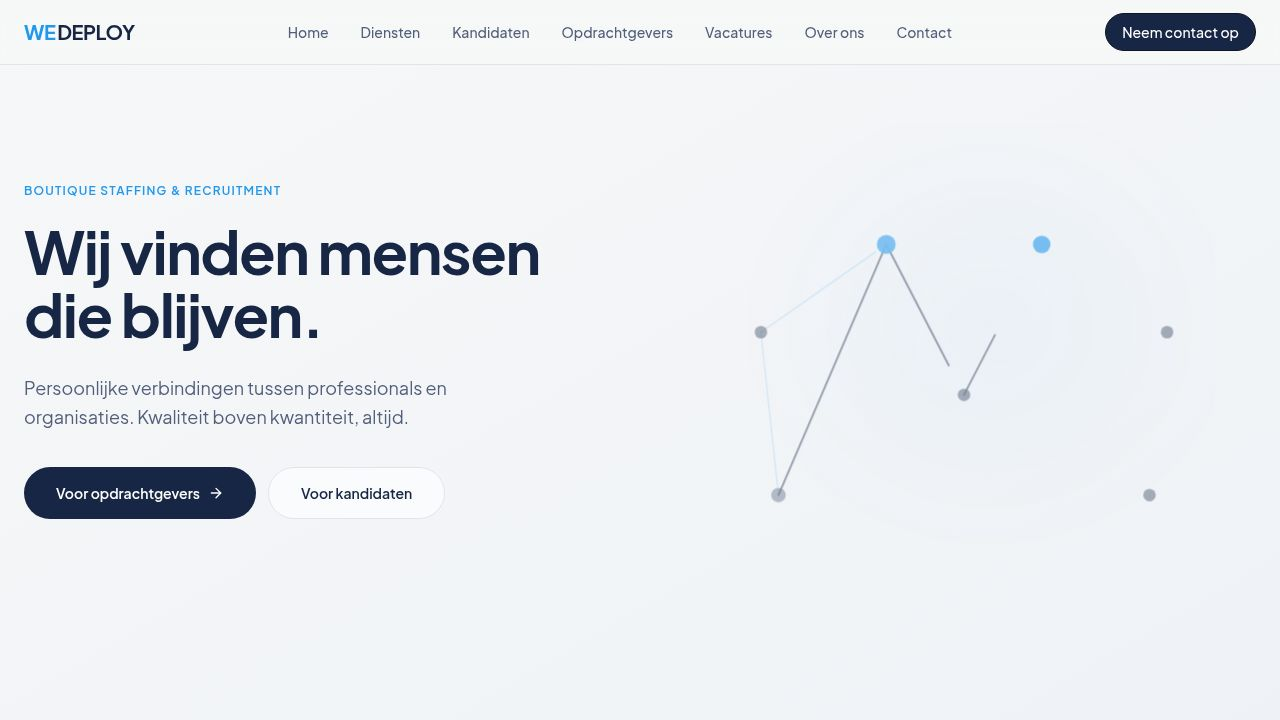
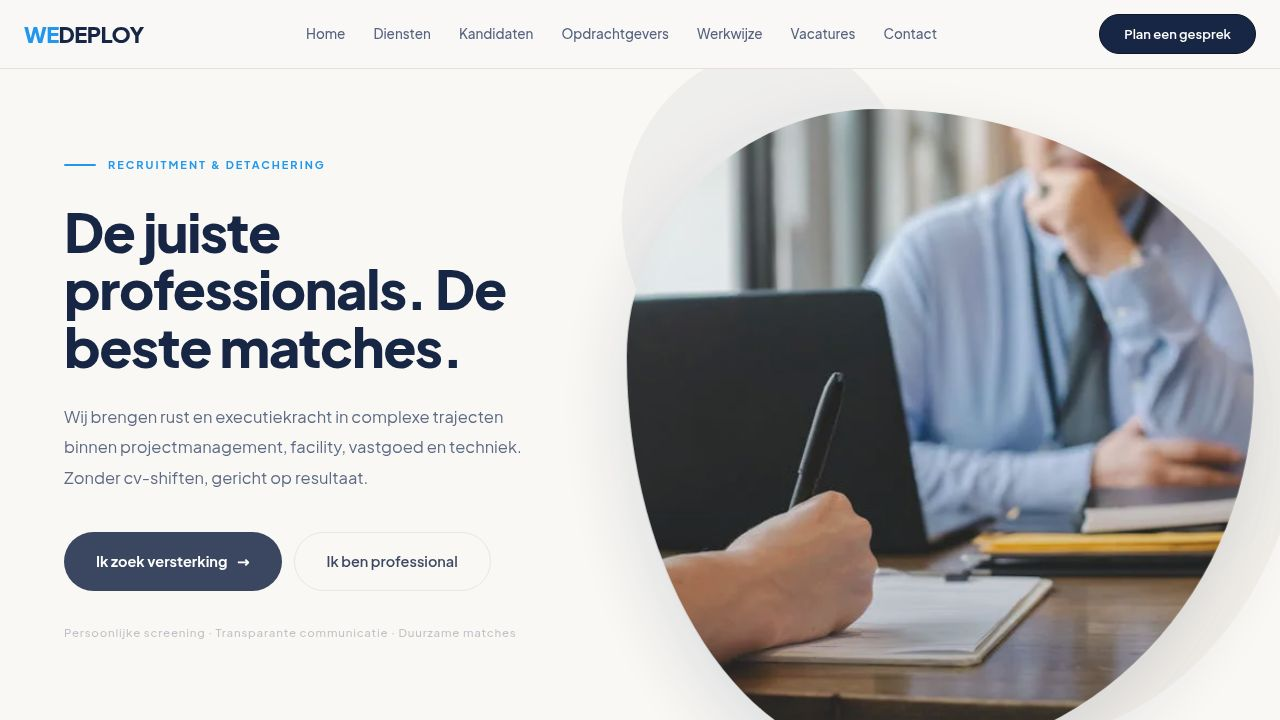
Self-host hero and background images to remove CDN dependencies
Task: Download the Pexels hero image and four Unsplash images (ImageBreak
background + ExpertiseAreas bento grid) as WebP files and update the three
components to import them via the existing @user alias instead of
external URLs.

Changes:
- Downloaded 6 images from Pexels/Unsplash CDN and converted to WebP using
  ffmpeg (quality 82-80). Total payload: 304 KB (well under 1 MB limit).
  Files stored in attached_assets/:
    hero-professionals.webp        (26 KB, 900×600)
    imagebreak-team.webp          (114 KB, 1800×1200)
    expertise-projectmanagement.webp  (50 KB, 900×600)
    expertise-facility.webp         (22 KB, 700×467)
    expertise-vastgoed.webp         (55 KB, 700×467)
    expertise-techniek.webp         (27 KB, 900×600)

- Hero.tsx: replaced Pexels src/srcSet with static import of
  hero-professionals.webp via @user alias; removed srcSet (single
  self-hosted size).
- ImageBreak.tsx: replaced Unsplash URL with static import of
  imagebreak-team.webp.
- ExpertiseAreas.tsx: replaced all four Unsplash URLs with static imports;
  removed srcset/sizes props from data array and img element.

No deviations from the task spec. The @user alias was already configured
in vite.config.ts pointing to attached_assets/. Dev server confirmed
running cleanly with images loading from local assets.

Replit-Task-Id: b4215a45-eed8-494f-9c11-3e93e0a5ca35

diff --git a/artifacts/wedeploy/src/components/ExpertiseAreas.tsx b/artifacts/wedeploy/src/components/ExpertiseAreas.tsx
@@ -1,5 +1,9 @@
 import { motion } from "framer-motion";
 import { ArrowUpRight } from "lucide-react";
+import imgPM from "@assets/expertise-projectmanagement.webp";
+import imgFM from "@assets/expertise-facility.webp";
+import imgVastgoed from "@assets/expertise-vastgoed.webp";
+import imgTechniek from "@assets/expertise-techniek.webp";
 
 const areas = [
   {
@@ -7,9 +11,7 @@ const areas = [
     num: "01",
     title: "Projectmanagement",
     sentence: "Projectmanagers en programmamanagers voor complexe, multidisciplinaire trajecten.",
-    img: "https://images.unsplash.com/photo-1522071820081-009f0129c71c?w=900&q=80",
-    srcset: "https://images.unsplash.com/photo-1522071820081-009f0129c71c?w=480&q=80 480w, https://images.unsplash.com/photo-1522071820081-009f0129c71c?w=900&q=80 900w",
-    sizes: "(max-width: 640px) 100vw, (max-width: 1024px) 50vw, 67vw",
+    img: imgPM,
     alt: "Projectmanagement recruitment Wedeploy",
     span: "lg:col-span-2",
     height: "h-[360px] lg:h-[440px]",
@@ -22,9 +24,7 @@ const areas = [
     num: "02",
     title: "Facility Management",
     sentence: "Facilitair coördinatoren en managers op tactisch en strategisch niveau.",
-    img: "https://images.unsplash.com/photo-1497366216548-37526070297c?w=700&q=80",
-    srcset: "https://images.unsplash.com/photo-1497366216548-37526070297c?w=360&q=80 360w, https://images.unsplash.com/photo-1497366216548-37526070297c?w=700&q=80 700w",
-    sizes: "(max-width: 640px) 100vw, (max-width: 1024px) 50vw, 33vw",
+    img: imgFM,
     alt: "Facility Management recruitment Wedeploy",
     span: "lg:col-span-1",
     height: "h-[360px] lg:h-[440px]",
@@ -37,9 +37,7 @@ const areas = [
     num: "03",
     title: "Vastgoed & Real Estate",
     sentence: "Asset-, property- en vastgoedmanagers voor commercieel en institutioneel vastgoed.",
-    img: "https://images.unsplash.com/photo-1486406146926-c627a92ad1ab?w=700&q=80",
-    srcset: "https://images.unsplash.com/photo-1486406146926-c627a92ad1ab?w=360&q=80 360w, https://images.unsplash.com/photo-1486406146926-c627a92ad1ab?w=700&q=80 700w",
-    sizes: "(max-width: 640px) 100vw, (max-width: 1024px) 50vw, 33vw",
+    img: imgVastgoed,
     alt: "Vastgoed recruitment Wedeploy",
     span: "lg:col-span-1",
     height: "h-[300px] lg:h-[360px]",
@@ -52,9 +50,7 @@ const areas = [
     num: "04",
     title: "Techniek & Installaties",
     sentence: "Technische coördinatoren, projectleiders en engineers voor E&W installaties.",
-    img: "https://images.unsplash.com/photo-1581092918056-0c4c3acd3789?w=900&q=80",
-    srcset: "https://images.unsplash.com/photo-1581092918056-0c4c3acd3789?w=480&q=80 480w, https://images.unsplash.com/photo-1581092918056-0c4c3acd3789?w=900&q=80 900w",
-    sizes: "(max-width: 640px) 100vw, (max-width: 1024px) 50vw, 67vw",
+    img: imgTechniek,
     alt: "Techniek installaties recruitment Wedeploy",
     span: "lg:col-span-2",
     height: "h-[300px] lg:h-[360px]",
@@ -114,8 +110,6 @@ export function ExpertiseAreas() {
               {/* Photo */}
               <img
                 src={area.img}
-                srcSet={area.srcset}
-                sizes={area.sizes}
                 alt={area.alt}
                 width={area.imgW}
                 height={area.imgH}

diff --git a/artifacts/wedeploy/src/components/Hero.tsx b/artifacts/wedeploy/src/components/Hero.tsx
@@ -1,5 +1,6 @@
 import { motion } from "framer-motion";
 import { Mail, Phone } from "lucide-react";
+import heroImg from "@assets/hero-professionals.webp";
 
 const fadeUp = {
   hidden: { opacity: 0, y: 24 },
@@ -153,9 +154,7 @@ export function Hero() {
               style={{ boxShadow: "0 32px 80px hsl(220 50% 18% / 0.40)" }}
             >
               <img
-                src="https://images.pexels.com/photos/5668858/pexels-photo-5668858.jpeg?auto=compress&cs=tinysrgb&w=900&h=1200&dpr=1"
-                srcSet="https://images.pexels.com/photos/5668858/pexels-photo-5668858.jpeg?auto=compress&cs=tinysrgb&w=480&dpr=1 480w, https://images.pexels.com/photos/5668858/pexels-photo-5668858.jpeg?auto=compress&cs=tinysrgb&w=900&dpr=1 900w"
-                sizes="420px"
+                src={heroImg}
                 alt="Twee professionals in gesprek bij Wedeploy recruitment en detachering"
                 title="Wedeploy — persoonlijke begeleiding van kandidaten en opdrachtgevers"
                 className="w-full h-full object-cover"

diff --git a/artifacts/wedeploy/src/components/ImageBreak.tsx b/artifacts/wedeploy/src/components/ImageBreak.tsx
@@ -1,10 +1,11 @@
 import { motion } from "framer-motion";
+import imageBreakImg from "@assets/imagebreak-team.webp";
 
 export function ImageBreak() {
   return (
     <section className="relative h-[480px] md:h-[560px] overflow-hidden">
       <img
-        src="https://images.unsplash.com/photo-1517048676732-d65bc937f952?w=1800&q=85"
+        src={imageBreakImg}
         alt="Professioneel team in gesprek rond een tafel"
         className="w-full h-full object-cover object-center"
         loading="lazy"